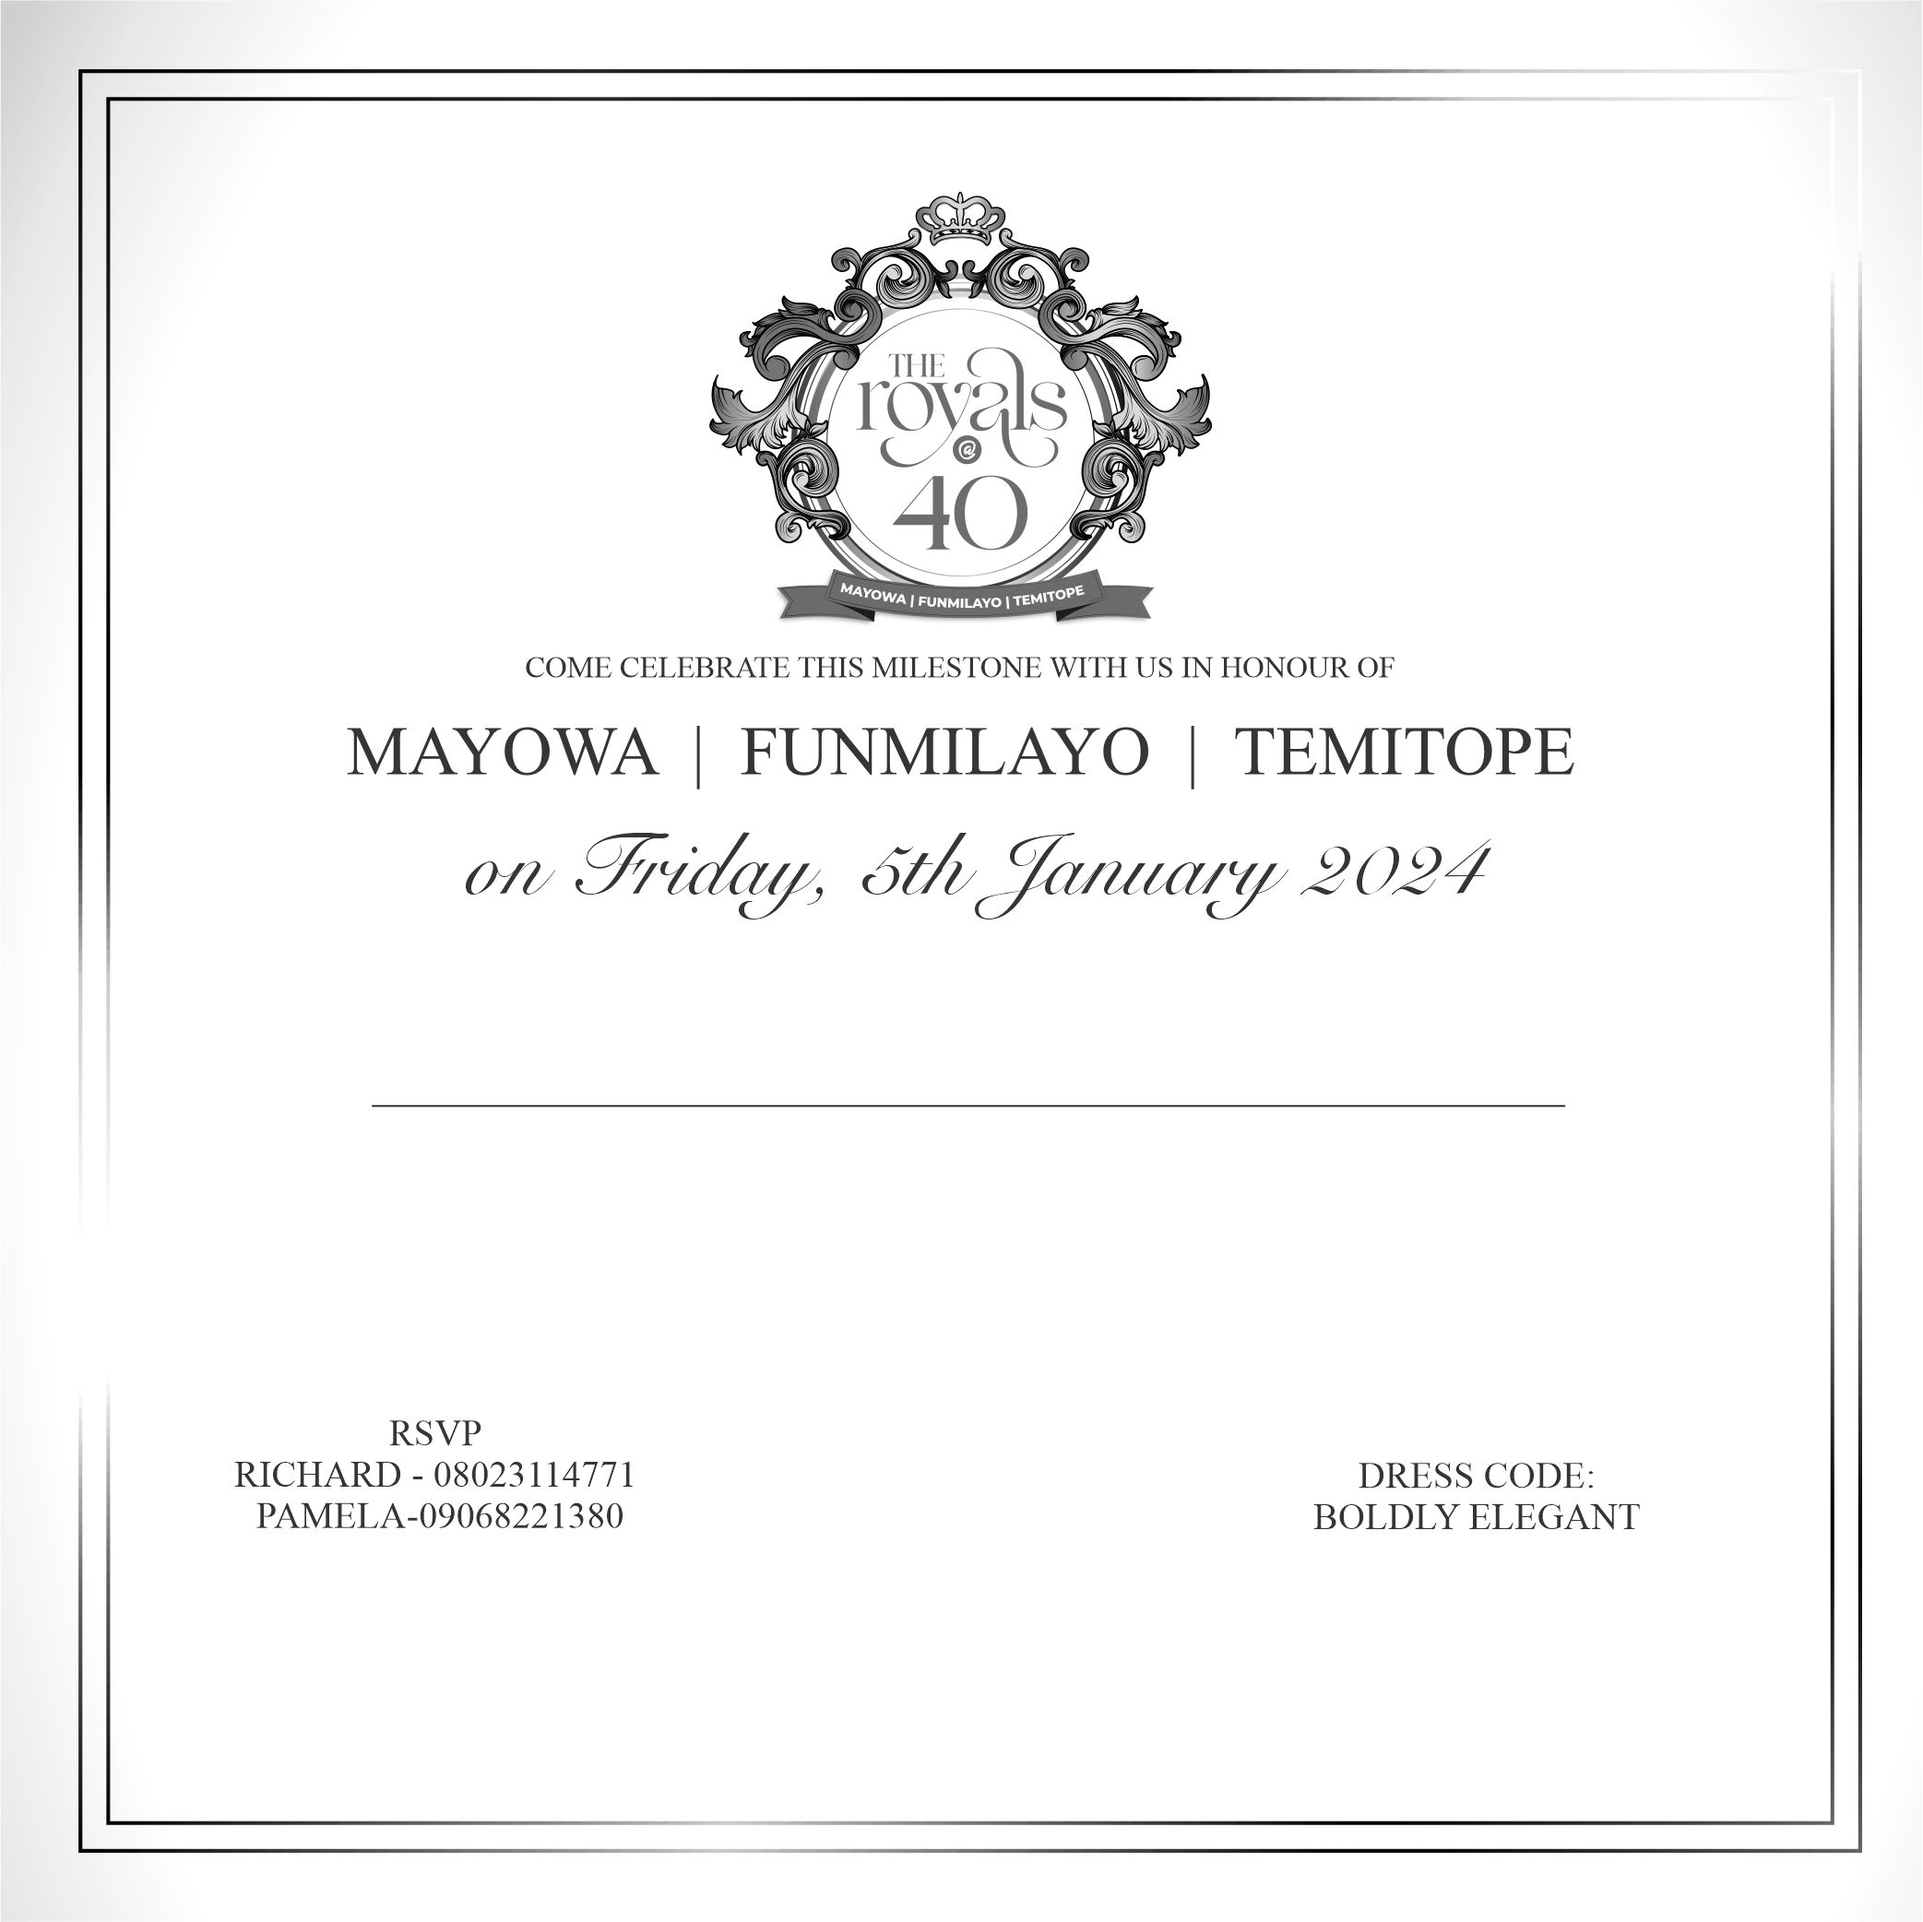
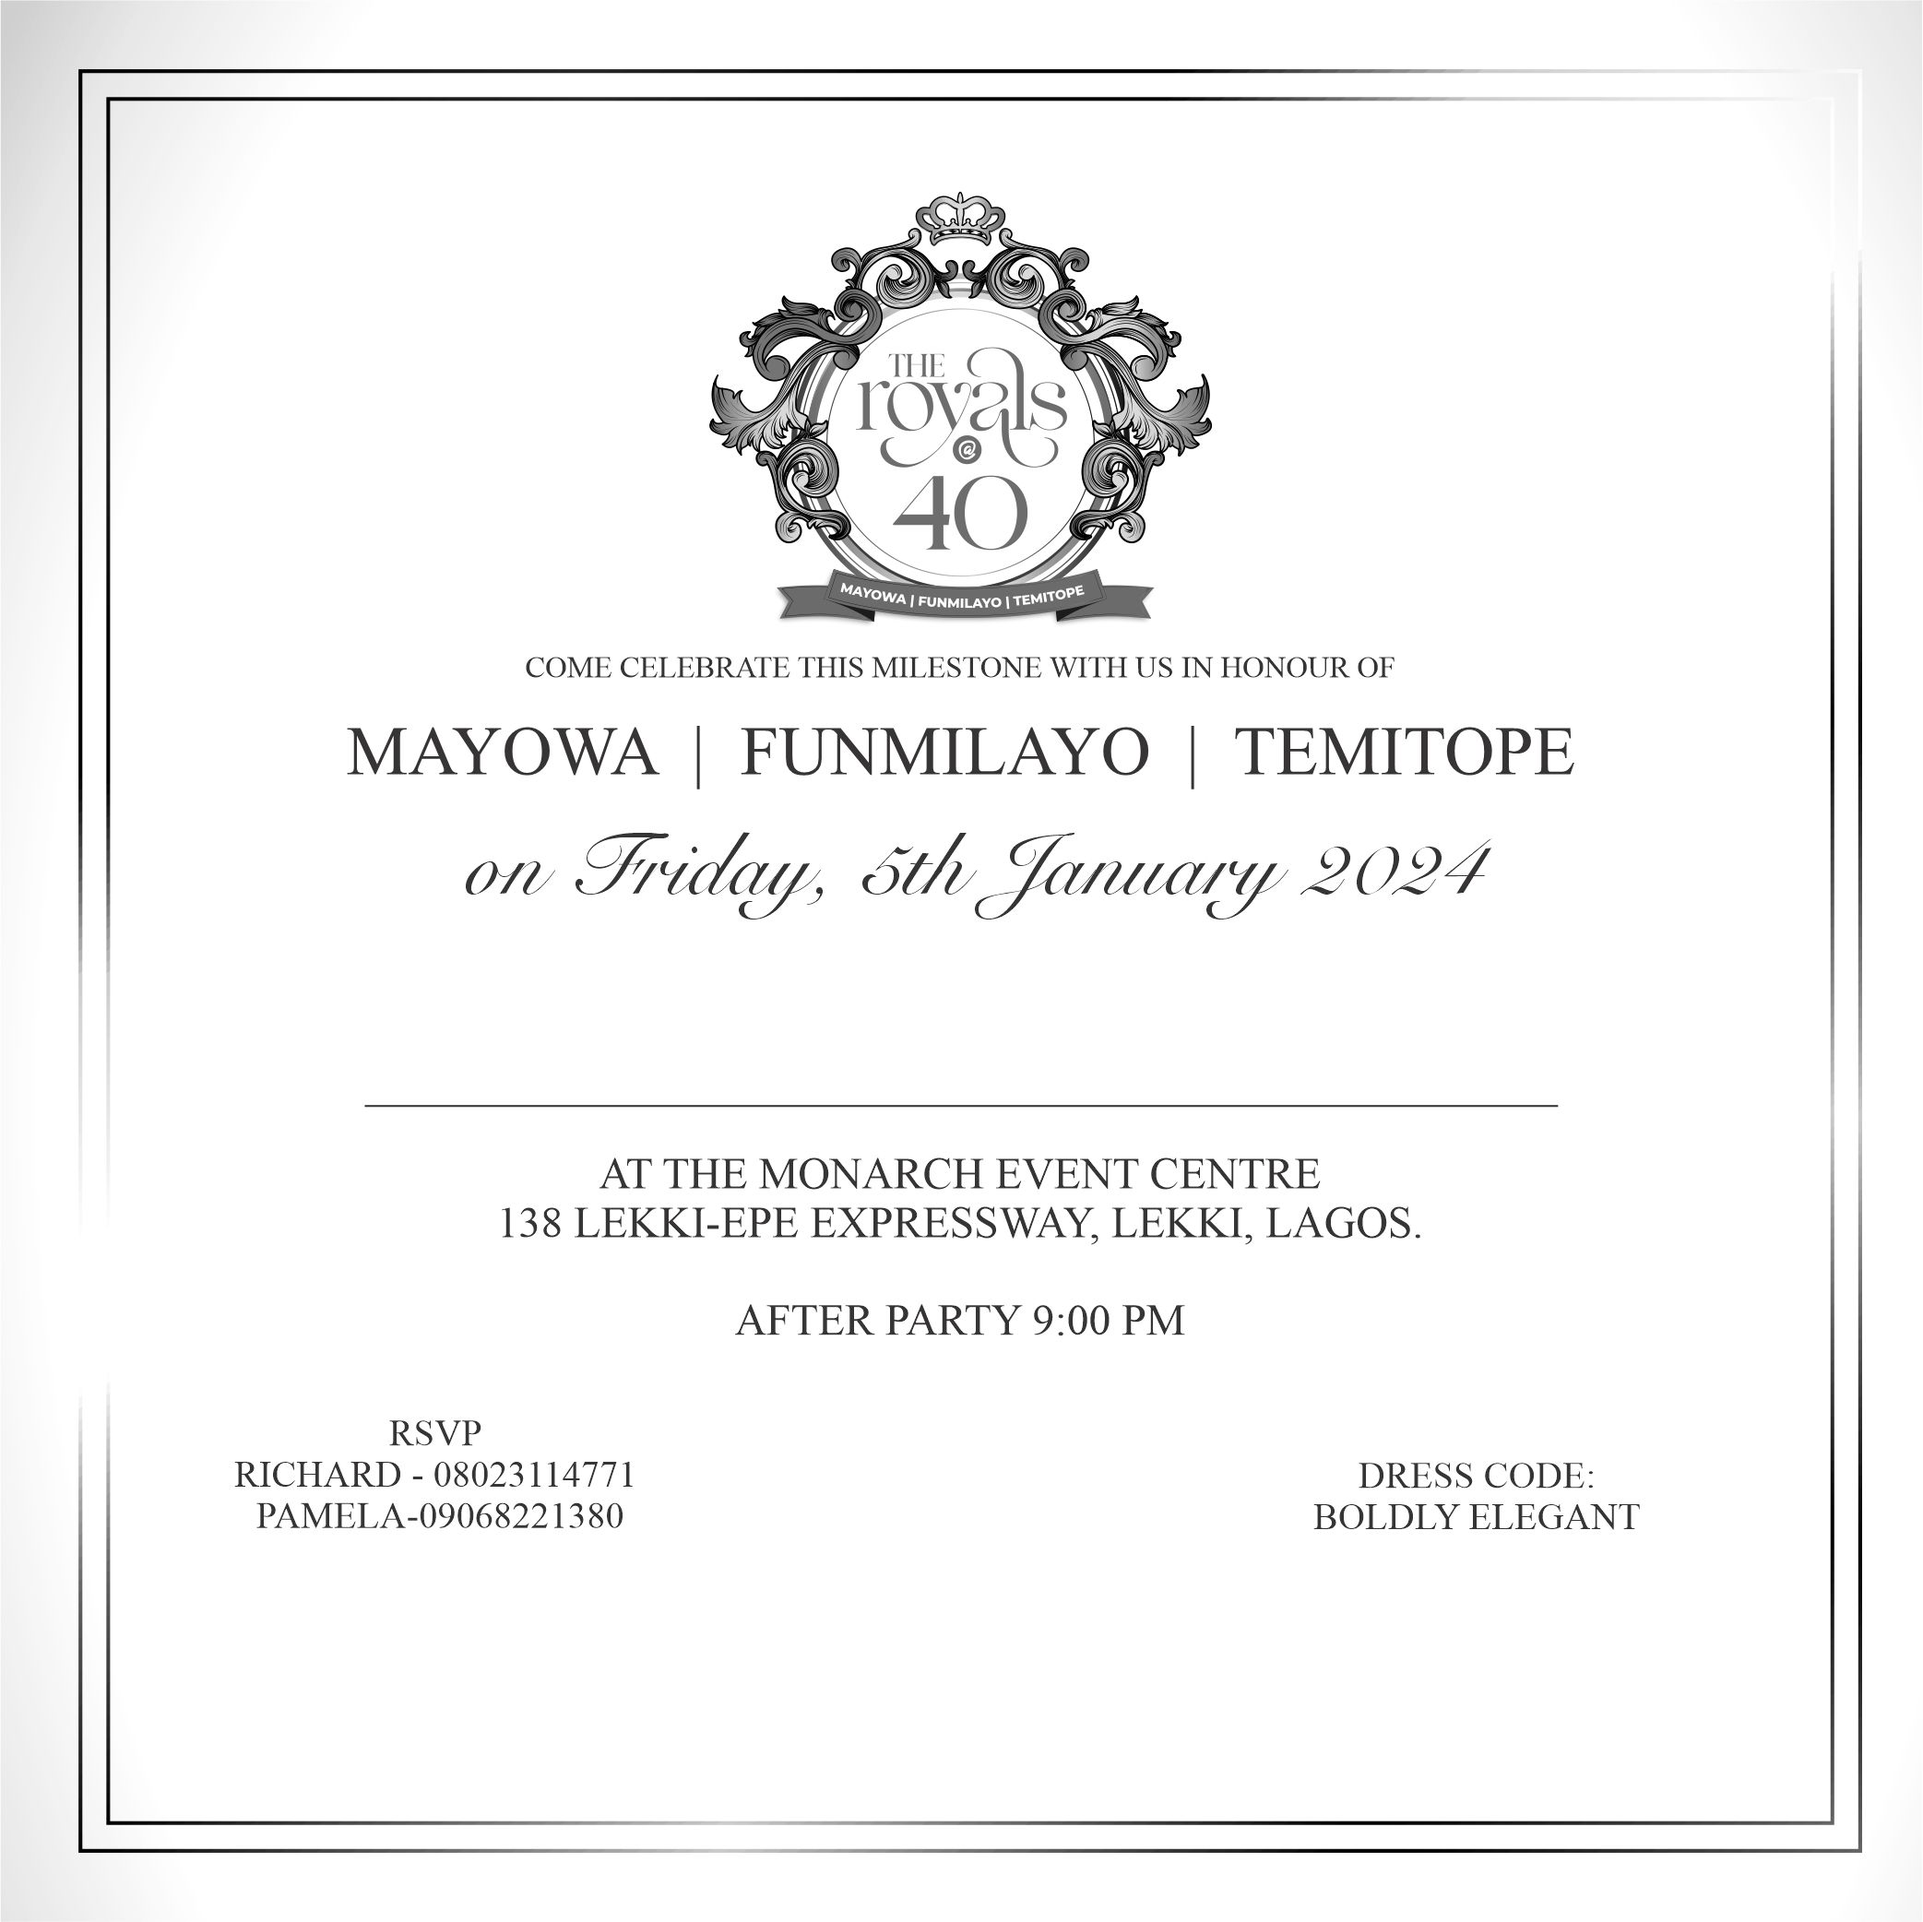
Add custom After party template

Changed region(s): [[0.2806, 0.5926, 0.7482, 0.655], [0.4676, 0.6862, 0.4988, 0.7174]]

diff --git a/resources/views/invites/show.blade.php b/resources/views/invites/show.blade.php
@@ -83,7 +83,7 @@
 
         <div style="">
             <img
-                style="margin-top: 70px; border: 1px solid #cccccc"
+                style="margin-top: 80px; border: 1px solid #cccccc"
                 src="https://chart.googleapis.com/chart?cht=qr&chl={{ route('invites.verify', $invite) }}&chs=170x170&choe=UTF-8&chld=L|0"
             />
         </div>
